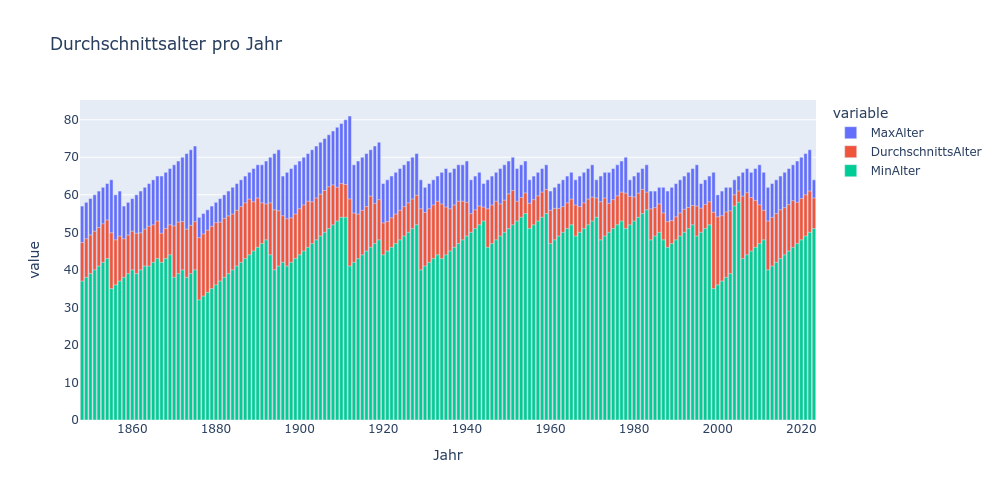
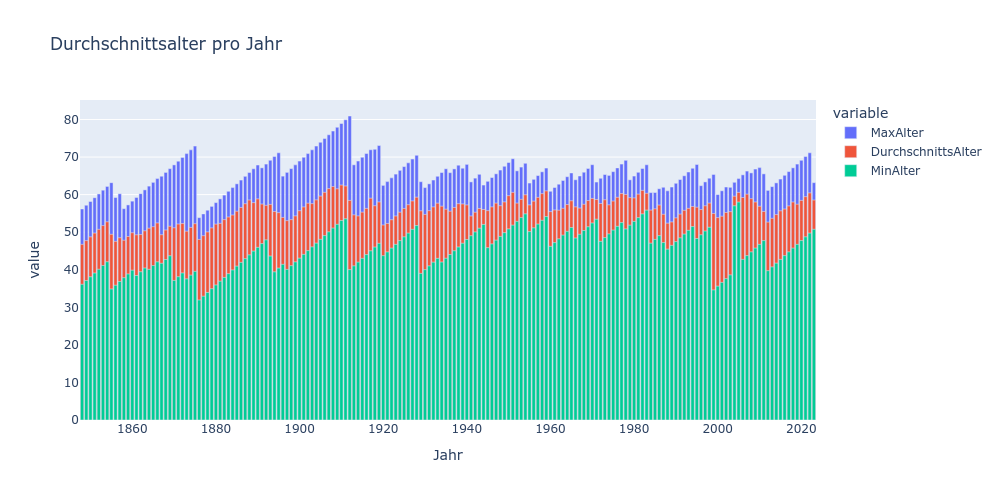
Improve age calculation

diff --git a/polars_test.py b/polars_test.py
@@ -4,16 +4,36 @@ import plotly.express as px
 
 print(pl.__version__)
 
-admin_ch = pl.read_csv("bundesrat.csv", separator=";")
-# Convert the names from the format with "lastname, firstname" (with commas) to "firstname lastname"
-# This is done to allow the join with wikipedia
-admin_ch = admin_ch.with_columns(pl.col("Name").str.split(", ").list.reverse().list.join(" "))
+def read_data():
+    admin_ch = pl.read_csv("bundesrat.csv", separator=";")
+    # Convert the names from the format with "lastname, firstname" (with commas) to "firstname lastname"
+    # This is done to allow the join with wikipedia
+    admin_ch = admin_ch.with_columns(pl.col("Name").str.split(", ").list.reverse().list.join(" "))
 
-wikipedia = pl.read_csv("bundesrat-wikipedia-de.csv", separator="\t")
-data = admin_ch.join(wikipedia, on="Name", validate="1:1")
-assert data.height == admin_ch.height
-assert data.height == wikipedia.height
+    wikipedia_de = pl.read_csv("bundesrat-wikipedia-de.csv", separator="\t")
+    data = admin_ch.join(wikipedia_de, on="Name", validate="1:1")
+    assert data.height == admin_ch.height
+    assert data.height == wikipedia_de.height
 
+    wikipedia_es= pl.read_csv("bundesrat-wikipedia-es.csv", separator="\t")
+    #with pl.Config(tbl_cols=wikipedia_es.width, tbl_rows=wikipedia_es.height):
+    #    print(wikipedia_es)
+    wikipedia_es = wikipedia_es.with_columns(pl.col("Nacido el").str.to_date("%d.%m.%Y"))
+    wikipedia_es = wikipedia_es.rename({ "N°": "Nummer", "Nacido el": "Geburtsdatum"})
+    data = data.join(wikipedia_es, on="Nummer", validate="1:1")
+    assert data.height == wikipedia_de.height
+    assert data.height == wikipedia_es.height
+    return data
+
+def extract_amtsjahre(data):
+    data = data.with_columns(pl.col("Amtsjahre").str.split("–"))
+    data = data.with_columns(pl.col("Amtsjahre").list.first().str.to_integer().alias("ErstesAmtsjahr"))
+    data = data.with_columns(pl.col("Amtsjahre").list.last().str.replace("^$", date.today().year).str.to_integer().alias("LetztesAmtsjahr"))
+    data = data.drop("Amtsjahre")
+    data = data.with_columns(pl.int_ranges("ErstesAmtsjahr", pl.col("LetztesAmtsjahr") + 1).alias("AktiveJahre"))
+    return data
+
+data = read_data()
 data = data.with_columns(pl.col("Elected").str.to_date("%d.%m.%Y"))
 data = data.with_columns(pl.col("Elected").dt.month().alias("MonthElected"))
 data = data.with_columns(pl.col("Retired").str.to_date("%d.%m.%Y"))
@@ -40,11 +60,8 @@ print(f"Cantons without federal council: {26 - by_canton.height}")
 
 print(data.group_by(by="MonthElected").count().sort("count", descending=True))
 
-data = data.with_columns(pl.col("Amtsjahre").str.split("–"))
-data = data.with_columns(pl.col("Amtsjahre").list.first().str.to_integer().alias("ErstesAmtsjahr"))
-data = data.with_columns(pl.col("Amtsjahre").list.last().str.replace("^$", date.today().year).str.to_integer().alias("LetztesAmtsjahr"))
-data = data.drop("Amtsjahre")
-data = data.with_columns(pl.int_ranges("ErstesAmtsjahr", pl.col("LetztesAmtsjahr") + 1).alias("AktiveJahre"))
+data = extract_amtsjahre(data)
+
 
 # Fill in the missing data for the years alive (use current year for people that are still alive)
 data = data.with_columns(pl.col("Lebensdaten").str.split("–"))
@@ -55,7 +72,11 @@ with pl.Config(tbl_cols=data.width, tbl_rows=data.height):
     print(data)
 
 by_year = data.with_columns(pl.col("AktiveJahre")).explode("AktiveJahre")
-by_year = by_year.with_columns(pl.col("AktiveJahre").sub(pl.col("Geburtsjahr")).alias("Alter"))
+by_year = by_year.with_columns(pl.concat_str([pl.lit("1.1.").alias("FirstDay"), pl.col("AktiveJahre").cast(pl.Utf8)]).alias("AktiveJahre"))
+by_year = by_year.with_columns(pl.col("AktiveJahre").str.to_date("%d.%m.%Y"))
+
+# TODO: Find way to calculate age properly with considering leap years
+by_year = by_year.with_columns(pl.col("AktiveJahre").sub(pl.col("Geburtsdatum")).dt.total_days().truediv(365).alias("Alter"))
 #with pl.Config(tbl_cols=by_year.width, tbl_rows=by_year.height):
 #    print(by_year)
 print(by_year["Alter"].describe())
@@ -63,9 +84,16 @@ group_by_years = by_year.group_by("AktiveJahre").agg(
     pl.col("Alter").mean().alias("DurchschnittsAlter"), 
     pl.col("Alter").max().alias("MaxAlter"),
     pl.col("Alter").min().alias("MinAlter"))
-group_by_years = group_by_years.rename({ "AktiveJahre": "Jahr"})
+group_by_years = group_by_years.rename({ "AktiveJahre": "JahrDatum"})
+group_by_years = group_by_years.with_columns(pl.col("JahrDatum").dt.year().alias("Jahr"))
 print(group_by_years.sort("DurchschnittsAlter"))
 
+with pl.Config(tbl_cols=group_by_years.width, tbl_rows=group_by_years.height):
+    print(group_by_years)
 fig = px.bar(group_by_years, x="Jahr", y=["MaxAlter", "DurchschnittsAlter", "MinAlter"], title="Durchschnittsalter pro Jahr", barmode='overlay', opacity=1.0)
-fig.show()
+#fig.show()
 fig.write_image("plots/Durchschnittsalter.png", width=1000)
+
+
+with pl.Config(tbl_cols=data.width, tbl_rows=data.height):
+    print(data)
